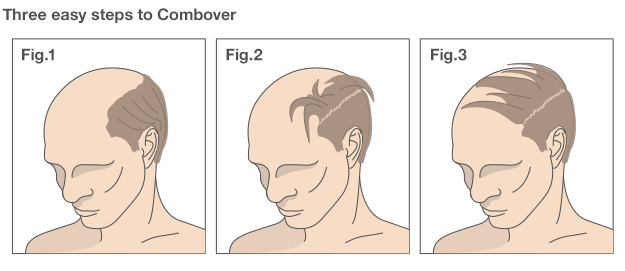
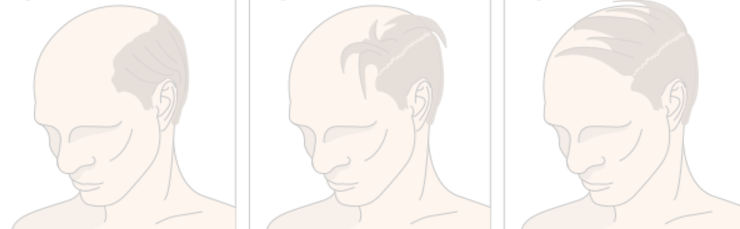
Style that sheet

diff --git a/public/css/application.css b/public/css/application.css
@@ -14,3 +14,66 @@ blockquote#answer {
   margin-bottom: 10px;
   width: 50%;
 }
+
+div.logo-container {
+  display: block;
+  border: 1px solid white;
+  margin: auto;
+  background-image: url('/images/Combover.jpg');
+}
+
+h2.overflow-logo {
+  color: #558C89;
+  margin-right: 70%;
+  margin-left: 30%;
+  font-size: 3.5em;
+}
+
+div.home {
+  background-color: #D9853B;
+  padding: 7px;
+}
+
+div.home a {
+  text-decoration: none;
+}
+
+li.questions {
+  border: 3px solid #558C89;
+  text-align: center;
+  width: 50%;
+  margin-right: 25%;
+  margin-left: 25%;
+  background-color: #e0f2f1;
+  padding: 20px;
+  line-height: 1.3;
+  border-radius: 4px;
+  list-style-type: none;
+  box-shadow: 4px 4px 12px #888888;
+}
+
+body {
+  background-color: #ECECEA;
+}
+
+span.created {
+  color: #8FBC8F;
+  font-size: 0.7em;
+  font-style: italic;
+}
+
+span.created-question {
+  color: #8FBC8F;
+  font-size: 0.7em;
+  font-style: italic;
+  text-align: center;
+}
+
+div.display-question {
+  text-align: center;
+}
+
+h2.question-title {
+  color: #558C89;
+  text-align: center;
+}
